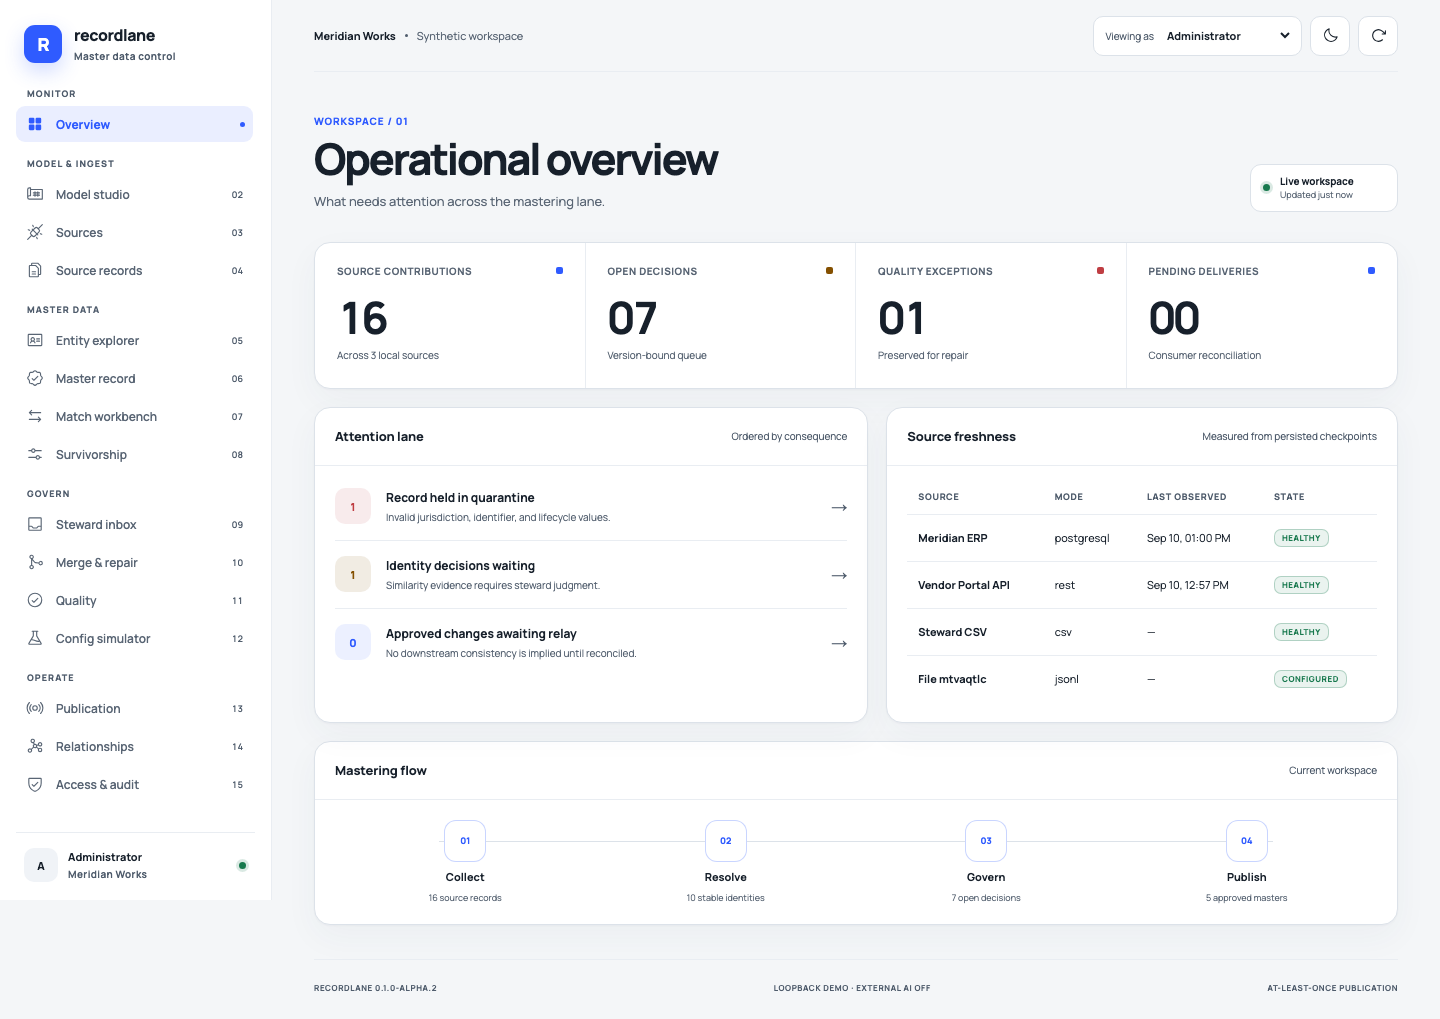
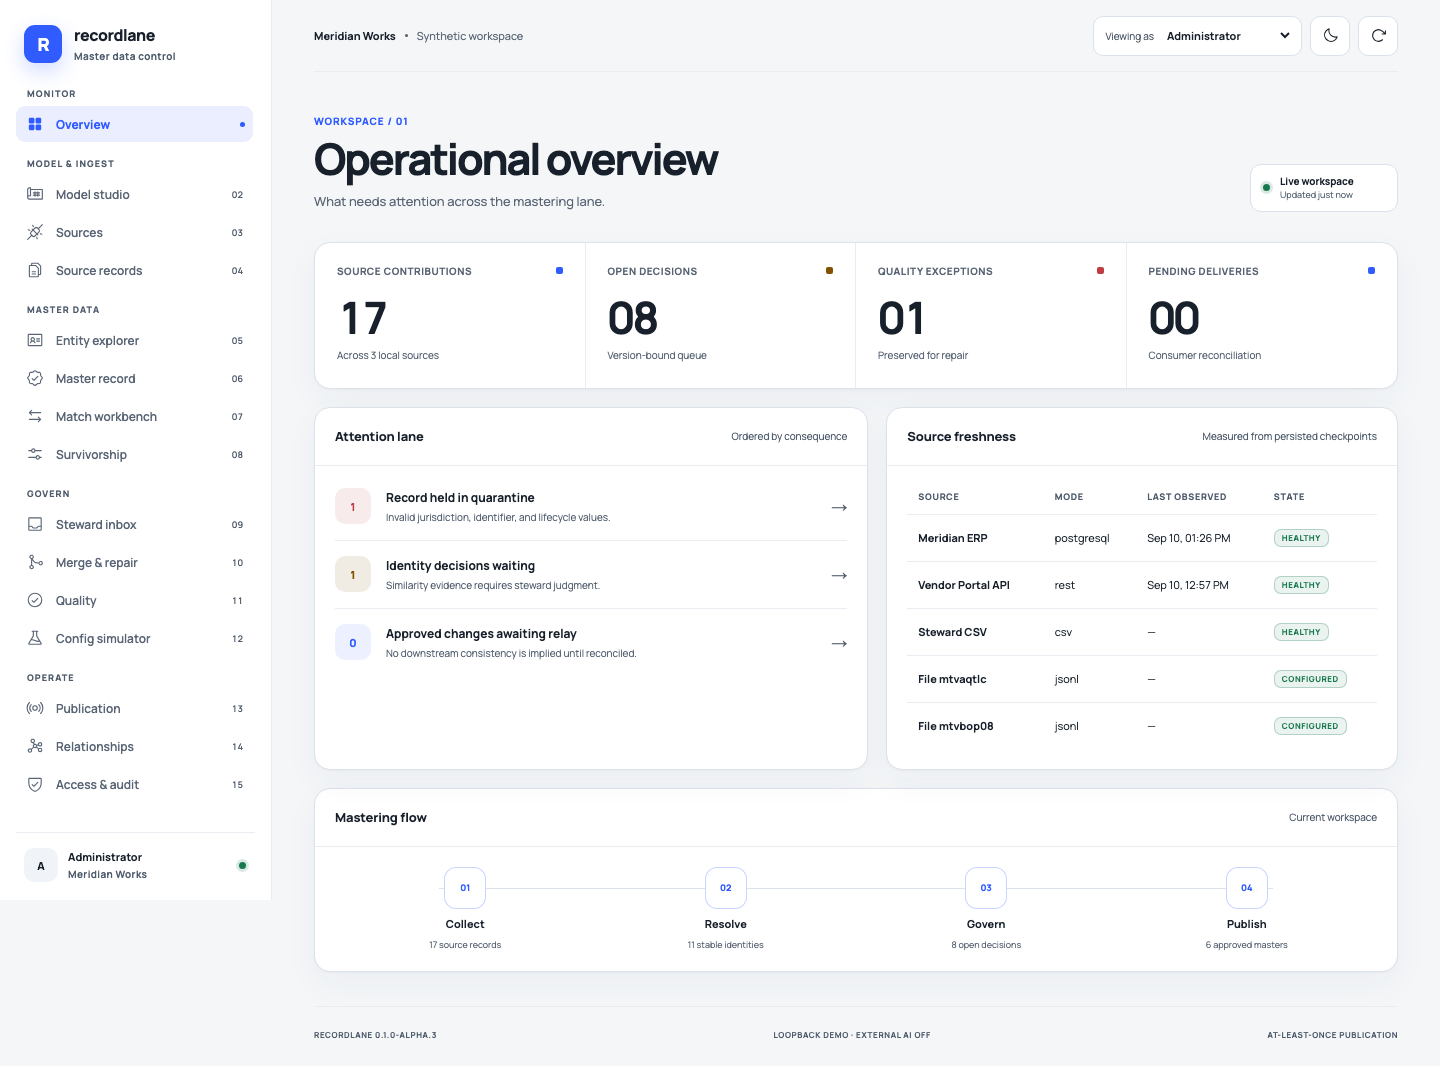
chore: prepare 0.1.0-alpha.3 docs

diff --git a/site/index.html b/site/index.html
@@ -1,7 +1,7 @@
 <!doctype html><html lang="en"><head><meta charset="utf-8"><meta name="viewport" content="width=device-width,initial-scale=1"><meta name="description" content="Recordlane open-source master data management"><title>Recordlane — Master data, with evidence</title><link rel="stylesheet" href="styles.css"></head><body>
 <header class="top"><a class="brand" href="index.html"><span class="mark">R</span>recordlane</a><nav><a href="guides.html">Guides</a><a href="guides.html#api">API</a><a href="security.html">Security</a><a href="https://github.com/dlamaro96/recordlane">GitHub</a></nav></header>
 <main><section class="hero"><div><div class="eyebrow">Open-source · self-hosted · evidence first</div><h1>Master data,<br>with evidence.</h1><p class="lead">Resolve identities, govern survivorship, and publish trusted records without hiding source contributions or outsourcing control to a mandatory cloud.</p><div class="buttons"><a class="button" href="guides.html#installation">Install the alpha</a><a class="button alt" href="guides.html#supplier">Master a supplier</a></div></div><img src="assets/screenshots/overview-light-1440.png" alt="Recordlane operational overview in the default light theme, showing real demo counts and attention queues"></section>
-<div class="strip"><div><b>Apache-2.0</b><span>Core governance stays open</span></div><div><b>PostgreSQL + OIDC</b><span>Portable production boundaries</span></div><div><b>No external AI</b><span>Deterministic core by default</span></div><div><b>0.1.0-alpha.2</b><span>Preview, not production certified</span></div></div>
+<div class="strip"><div><b>Apache-2.0</b><span>Core governance stays open</span></div><div><b>PostgreSQL + OIDC</b><span>Portable production boundaries</span></div><div><b>No external AI</b><span>Deterministic core by default</span></div><div><b>0.1.0-alpha.3</b><span>Preview, not production certified</span></div></div>
 <section class="section"><div class="eyebrow">Operational truth</div><h2>Every decision keeps its trail.</h2><div class="cards"><div class="card"><span>01 / LINEAGE</span><h3>Attribute provenance</h3><p>Every selected master value points to its source record, source version, verification state, and rule.</p></div><div class="card"><span>02 / CONSTRAINTS</span><h3>Explainable resolution</h3><p>Candidate scores are evidence; hard identifier contradictions prevent unsafe automatic clusters.</p></div><div class="card"><span>03 / RECOVERY</span><h3>Governed correction</h3><p>Merges and splits preserve contributions, rewrite relationships, and create downstream repair work.</p></div></div></section>
 <section class="section"><div class="eyebrow">Architecture</div><h2>A modular monolith with honest boundaries.</h2><img class="diagram" src="assets/diagrams/system-context.svg" alt="Recordlane system context showing operators, identity provider, source systems, PostgreSQL, and downstream consumers"></section></main>
 <footer class="top"><span>© Recordlane contributors</span><span>Apache-2.0 · No telemetry required</span></footer></body></html>
